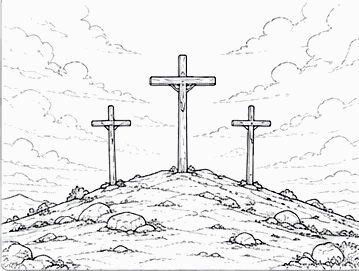
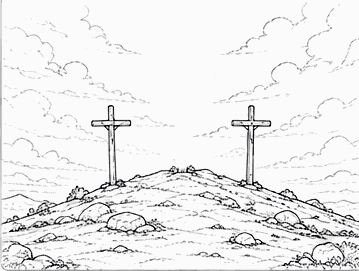
Re-wire updated calvary backdrop (center cross open for placing Jesus)
Glen resaved calvary so the middle cross is empty — the crucified Jesus
piece is placed on it instead of being baked in.

Claude-Session: https://claude.ai/code/session_01LoDKpu8fB59m8aYmBQz1nX

Changed region(s): [[0.3983, 0.1771, 0.6128, 0.6199]]

diff --git a/index.html b/index.html
@@ -5,7 +5,7 @@
 <meta name="viewport" content="width=device-width, initial-scale=1.0, maximum-scale=1.0, user-scalable=no">
 <title>Footsteps of the Teacher</title>
 <meta name="description" content="A faith-based deduction-and-discovery game for kids that teaches biblical stories and the basics of real coding.">
-<link rel="stylesheet" href="styles/footsteps.css?v=59">
+<link rel="stylesheet" href="styles/footsteps.css?v=60">
 </head>
 <body>
 <div id="app">
@@ -28,14 +28,14 @@
 <div class="toast" id="toast"></div>
 
 <!-- content (data) -->
-<script src="data/cases.js?v=59"></script>
-<script src="data/workshops.js?v=59"></script>
+<script src="data/cases.js?v=60"></script>
+<script src="data/workshops.js?v=60"></script>
 <!-- engines -->
-<script src="src/engine.js?v=59"></script>
-<script src="src/roundtable.js?v=59"></script>
-<script src="src/finale.js?v=59"></script>
-<script src="src/workshop.js?v=59"></script>
+<script src="src/engine.js?v=60"></script>
+<script src="src/roundtable.js?v=60"></script>
+<script src="src/finale.js?v=60"></script>
+<script src="src/workshop.js?v=60"></script>
 <!-- app shell -->
-<script src="src/app.js?v=59"></script>
+<script src="src/app.js?v=60"></script>
 </body>
 </html>
